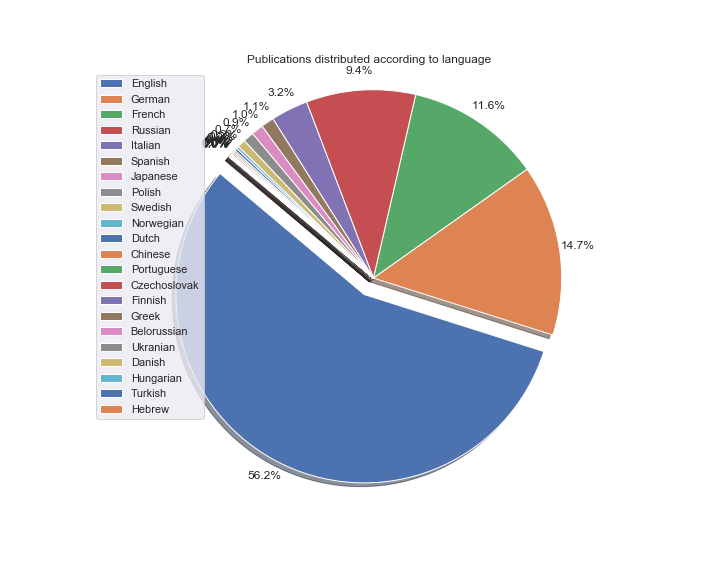
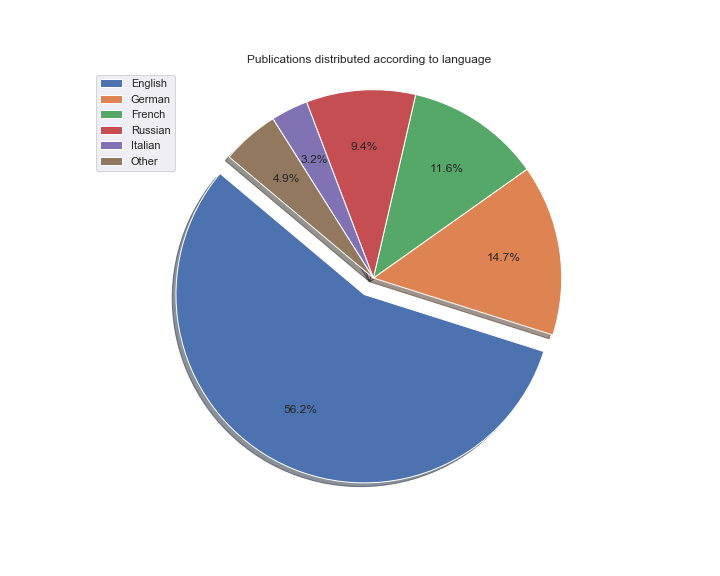
Pie plot finished with aggregated data

diff --git a/2_code_scripts/untitled0.py b/2_code_scripts/untitled0.py
@@ -1,43 +1,21 @@
 #!/usr/bin/env python3
 # -*- coding: utf-8 -*-
 """
-Created on Mon Mar 25 23:37:36 2019
+Created on Fri Apr 12 10:39:47 2019
 
 @author: giudittaparolini
 """
-
 import os
-import matplotlib.pyplot as plt
 import csv
 import itertools
 
-# PRINT TO A CSV FILE IN THE FOLDER 1_DATA
-def print_csv_data (df, filename):
-    df.to_csv(os.path.join("..", "1_data", filename))
-
-
-#1 PRINT TO A TXT FILE IN THE FOLDER 3_PRINTOUTS
-def print_txt_printouts (to_be_printed, filename):
-    with open(os.path.join("..", "3_printouts", filename),'w') as outfile:
-        for item in to_be_printed:
-            print(item, file=outfile)
-       
-# PRINT TO A CSV FILE IN THE FOLDER 3_PRINTOUTS
-def print_csv_printouts (df, filename):
-    df.to_csv(os.path.join("..", "3_printouts", filename))
-
-# PRINT A JPG FIGURE IN THE FOLDER 4_PLOTS
-def print_plot (fig, filename):
-    plt.savefig(os.path.join("..", "4_plots", filename))
-
-# 
-       
 def lang_count_list():
     with open(os.path.join("..", "3_printouts","lang_counts.csv")) as f:
         reader = csv.reader(f)
         my_list = list(reader)
         return my_list
     
+print(lang_count_list())
 
 def main_lang_list():
     with open(os.path.join("..", "3_printouts","lang_counts.csv")) as f:
@@ -49,6 +27,7 @@ def main_lang_list():
         agg_list.append(item)
     return agg_list
 
+print(main_lang_list())
 
 def other_count():
     my_list = lang_count_list()
@@ -59,6 +38,7 @@ def other_count():
     others = sum(other_count)
     return others
 
+print(other_count())
 
 def agg_list():
     agg_list = []
@@ -71,13 +51,5 @@ def agg_list():
         agg_list.append(item)
     return agg_list
 
+print(agg_list())
 
-     
-        
-#1 STRIP BLANK SPACES FROM ALL COLUMNS OF A DATAFRAME
-def StripAllCols(df): 
-    df.columns = df.columns.str.strip()
-
-#2 STRIP BLANK SPACES FROM A SPECIFIC COLUMN OF A DATAFRAME
-def StripCol(df,column): 
-    df[column] = df[column].str.strip()

diff --git a/2_code_scripts/plot_methods.py b/2_code_scripts/plot_methods.py
@@ -5,39 +5,35 @@ Created on Thu Apr  4 23:14:09 2019
 
 @author: giudittaparolini
 """
-import csv
+
 import seaborn as sns
 import matplotlib.pyplot as plt
-import os
+import utilities as ut
 
-#PLOT HIST LANGUAGES
-def count_plot_lang(df):
-     sns.set(style="darkgrid")
-     sns.set(rc={"figure.figsize":(25,14)})
-     sns.countplot(y="Language", data=df)
-     
-#PLOT HIST OF THE PUBLICATION YEARS
+
+#Plot the histogram for the publications printed in each year
 def hist_pub_year(df):
     plt.figure(figsize=(25,14))
     df.hist(column="Publication Year", bins=50 )
     plt.xlabel("Publication Year",fontsize=15)
     plt.ylabel("Frequency",fontsize=15)
+    
+#Plot the histogram for the publications' languages
+def count_plot_lang(df):
+     sns.set(style="darkgrid")
+     sns.set(rc={"figure.figsize":(25,14)})
+     sns.countplot(y="Language", data=df)
 
-#PLOT PIE CHART LANGUAGES
-def lang_count_list():
-    with open(os.path.join("..", "3_printouts","lang_counts.csv")) as f:
-        reader = csv.reader(f)
-        my_list = list(reader)
-    return my_list
-        
+#Plot pie chart for the publications' languages
 def pie_lang():
-    my_list = lang_count_list()
+    my_list = ut.agg_list()
     languages = dict(my_list).keys()
     counts = dict(my_list).values()
+    
     plt.figure(figsize=(10,8))      
-    explode = (0.1,0,0,0,0,0,0,0,0,0,0,0,0,0,0,0,0,0,0,0,0,0)
-    plt.pie(counts, explode,labels=None, 
-            autopct='%1.1f%%', pctdistance=1.1, shadow=True, startangle=140)
+    explode = (0.1,0,0,0,0,0)
+    plt.pie(counts, explode, 
+            autopct='%1.1f%%', pctdistance=0.7, shadow=True, startangle=140)
     plt.title("Publications distributed according to language")
     plt.legend(loc="best", labels=languages )
     plt.axis('equal')
